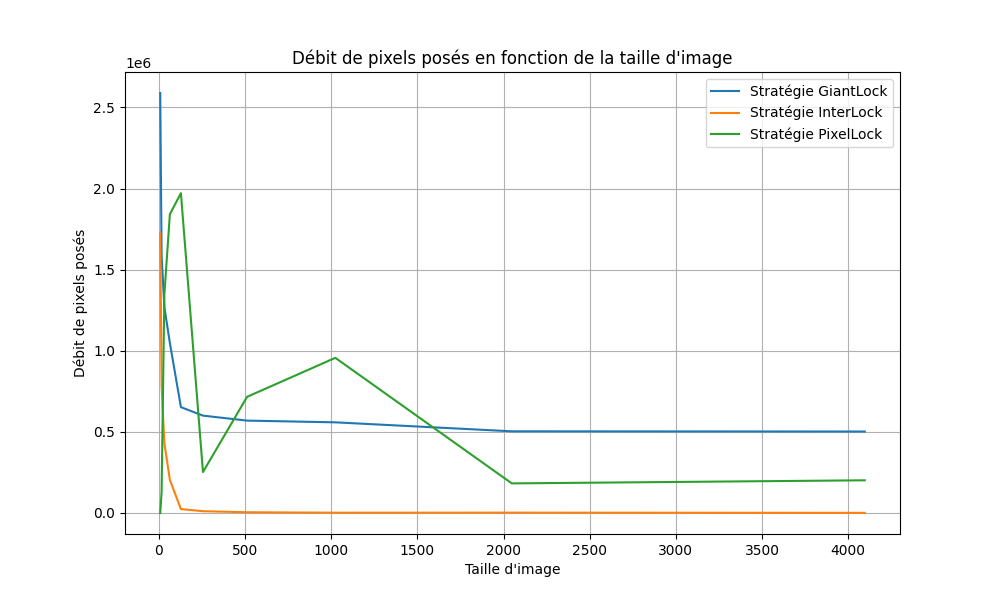
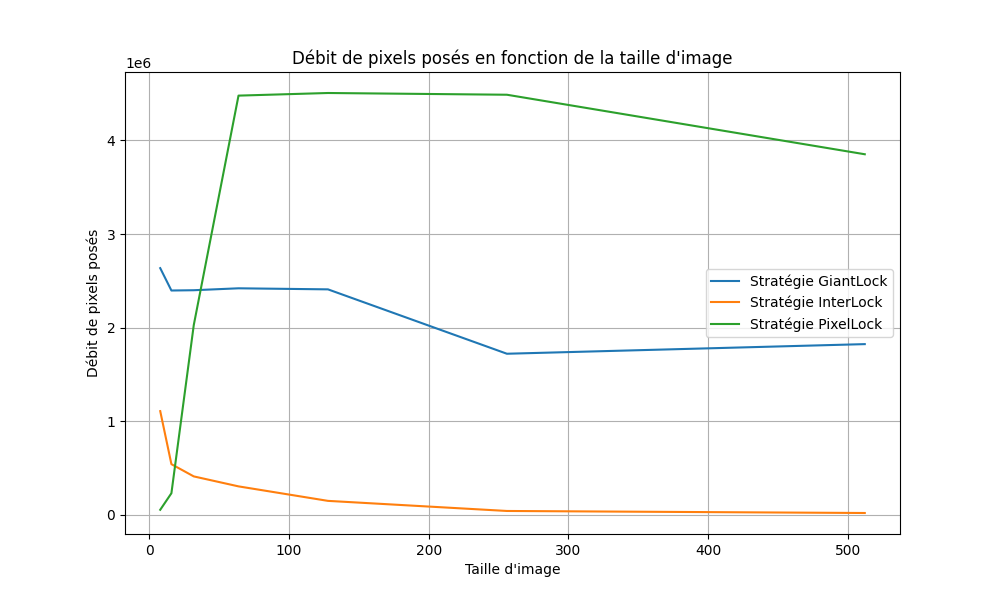
experience sur la section critique de InterLock

diff --git a/src/pixelwar/experiment/TimeCSExperiment.java b/src/pixelwar/experiment/TimeCSExperiment.java
@@ -1,0 +1,76 @@
+package pixelwar.experiment;
+
+import java.awt.Color;
+import java.io.BufferedWriter;
+import java.io.FileWriter;
+import java.io.IOException;
+import java.util.concurrent.ExecutionException;
+import java.util.concurrent.ExecutorService;
+import java.util.concurrent.Executors;
+import java.util.concurrent.Future;
+import java.util.concurrent.TimeUnit;
+
+import pixelwar.strategy.ImageTreeInterMutex;
+import pixelwar.tree.ImageTree;
+
+public class TimeCSExperiment {
+		public static void main(String[] args) throws InterruptedException, ExecutionException {
+	 		/* Arbres & pools pour les graphes selon les paramètres à faire varier */
+	 		ImageTree img2 = null;
+	 		
+			ExecutorService pool2 = null;
+			
+			/*Valeurs maximum des métriques à changer selon les caractéristiques matérielles*/
+			int maxToile = 512; // max 512 pour 16Go RAM, max 4096 pour 32Go RAM
+			// si durée d'execution trop longue, réduire nombre de threads et modifier le pas de boucle de la derniere expérimentation :
+			int maxThreads = 1000; 
+			
+			/* Paramètres des expérimentations */
+			int tailleTuile = 16;
+		    int nbThreads = 20;
+		    int tailleToile = 512; // 2048 pour 32Go de RAM
+			
+		    /* fichier de sortie */
+		    String resultPath;
+		    		    
+			System.out.println("Stratégie InterLock");
+	
+			// On fait varier la taille de l'arbre
+			System.out.println("On fait varier la taille de l'arbre");
+			
+			/* Paramètres fixes */
+		    tailleTuile = 6;
+		    nbThreads = 20;
+		    
+		    resultPath = "data/time/testImgSize_timeCS2.txt";
+	
+	
+		    try (BufferedWriter out = new BufferedWriter(new FileWriter(resultPath))) {
+		    	for (tailleToile = 8; tailleToile <= maxToile; tailleToile <<= 1) { // la taille de la tuile doit être inférieure ou égale à celle de la toile
+		    		pool2 = Executors.newFixedThreadPool(nbThreads);
+	
+		        	img2 = new ImageTreeInterMutex(tailleToile);
+		        
+		        	out.write(tailleToile + " ");
+		        			        	
+			    	for(int j = 0; j < 100 ; j++) {
+			    		
+			    		Future<Long> result2 = pool2.submit(new DrawTileCSTime(img2, tailleTuile, new Color((int)(Math.random() * 0x1000000))));
+			    		double res = (double) result2.get();
+			    		out.write(res + " ");		 
+			    		
+			    	} 
+			    	out.write("\n");
+			    	
+			    	pool2.shutdown();
+				    pool2.awaitTermination(15, TimeUnit.SECONDS);
+				    
+				    
+			    }
+		
+	    	} catch (IOException e) {
+	    		e.printStackTrace();
+	    	}
+		    System.out.println("Ouvrir le fichier " + resultPath + " pour voir les résultats bruts");
+		}
+}

diff --git a/src/pixelwar/strategy/ImageTreeInterMutex.java b/src/pixelwar/strategy/ImageTreeInterMutex.java
@@ -173,4 +173,67 @@ public class ImageTreeInterMutex extends ImageTree {
 		}
 	}	
 
+	public Long putTileCS(Tile t, Color c) {
+		
+		// calculer le chemin vers le noeud cible et récupérer la longueur de ce chemin
+		Map<Integer, byte[]> path_ = pathToNode(t);
+		int length = 0;
+		for (Integer i : path_.keySet()) { // récupérer l'unique clé de la map
+			length = i;
+		}
+		byte[] path = path_.get(length);
+		
+		Node cur = getRoot(); // noeud curseur
+		Node next = null; // noeud suivant du noeud curseur
+		int i = 0;
+		
+		try {
+			cur.lockNode(); // verrouillage de la racine
+
+			// suivre le chemin jusqu'à trouver le noeud cible (en verrouillant les noeuds rencontrés le long du chemin pour vérifier que la zone est libre)
+			while(i < length) {
+				if (path[i] == 1) {
+					next = cur.getRight();
+				} else {
+					next = cur.getLeft();
+				}
+				try {
+					next.lockNode();
+				} finally {
+					cur.unlockNode();
+				}
+
+				cur = next;
+				i++;
+			}
+			
+			// à ce stade cur pointe sur le noeud cible et il est bien verrouillé
+			
+			// attendre que tous les sous-noeuds de target soient déverrouillés
+			Node guilty = verifySubTree(cur);
+			while(guilty != null) {
+				try {
+					guilty.lockNode();
+				} finally {
+					guilty.unlockNode();
+				}
+				guilty = verifySubTree(cur);
+			}
+			
+			// une fois que tous les noeuds sont libres on pose notre tuile
+			List<Pixel> pixels = t.getPixels();
+			long debut = System.nanoTime();
+
+			for (Pixel p : pixels) {
+				putPixelColor(p, c);
+			}
+			long fin = System.nanoTime();
+
+			return fin - debut;
+			
+		} finally {
+			// on libère le noeud cible
+			cur.unlockNode();
+		}
+	}	
 }

diff --git a/src/pixelwar/experiment/DrawTileCSTime.java b/src/pixelwar/experiment/DrawTileCSTime.java
@@ -1,0 +1,24 @@
+package pixelwar.experiment;
+
+import java.awt.Color;
+import java.util.concurrent.Callable;
+
+import pixelwar.drawing.Tile;
+import pixelwar.tree.ImageTree;
+
+public class DrawTileCSTime implements Callable<Long>{
+	private final Tile tile;
+	private final ImageTree t;
+	private final Color c;
+	public DrawTileCSTime(ImageTree t, int sizeTile, Color c) {
+		this.tile = new Tile(t, sizeTile); //construction de la tuile à poser
+		this.t = t;
+		this.c = c;
+	}
+	
+	
+	/* Pose la tuile et retourne le temps d'attente du thread avant de pouvoir poser la tuile */
+	public Long call() throws Exception {
+		return t.putTileCS(tile, c);
+	}
+}

diff --git a/src/pixelwar/strategy/ImageTreePixelMutex.java b/src/pixelwar/strategy/ImageTreePixelMutex.java
@@ -52,4 +52,29 @@ public class ImageTreePixelMutex extends ImageTree {
 			}
 		}
 	}
+	
+	public Long putTileCS(Tile t, Color c) {
+		List<Pixel> pixels = t.sortById().getPixels(); // trier les pixels par ordre croissant d'identifiant
+		try {
+			/* obtenir les verrous de tous les pixels */
+			for (Pixel p : pixels) {
+				p.lockNode();
+			}
+			long debut = System.nanoTime();
+
+			/* poser les pixels */
+			for (Pixel p : pixels) {
+				putPixelColor(p, c);
+			}
+			long fin = System.nanoTime();
+
+			return fin - debut;
+			
+		} finally {
+			/* relâcher tous les verrous */
+			for (Pixel p : pixels) {
+				p.unlockNode();
+			}
+		}
+	}
 }

diff --git a/src/pixelwar/strategy/ImageTreeMutex.java b/src/pixelwar/strategy/ImageTreeMutex.java
@@ -36,7 +36,24 @@ public class ImageTreeMutex extends ImageTree {
 			mutex.unlock();
 		}
 	}
+	
+	public Long putTileCS(Tile t, Color c) {
+		try {
+			
+			mutex.lock(); // obtenir le verrou pour l'accès à l'arbre
+			long debut = System.nanoTime();
+			// poser les pixels
+			for (Pixel p : t.getPixels()) {
+				putPixelColor(p,c);
+			}
+			long fin = System.nanoTime();
 
+			return fin - debut;
+			
+		} finally {
+			mutex.unlock();
+		}
+	}
 	
 	@Override
 	public Pixel createPixel(int id, int x, int y) {

diff --git a/src/pixelwar/tree/ImageTree.java b/src/pixelwar/tree/ImageTree.java
@@ -43,6 +43,7 @@ public abstract class ImageTree{
     public abstract Pixel createPixel(int id, int x, int y);
     public abstract InterNode createInterNode();
     public abstract Long putTile(Tile t, Color c);
+    public abstract Long putTileCS(Tile t, Color c);
     
     /* Retourne la racine de l'arbre */
     public Node getRoot() {
